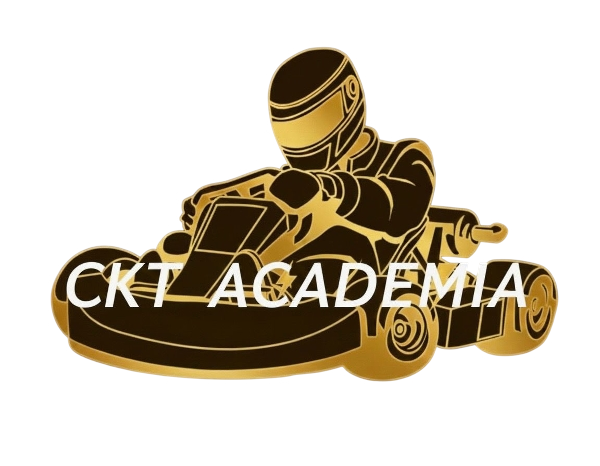
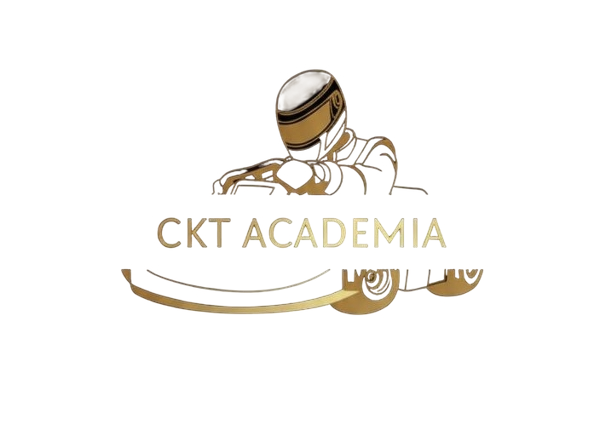
feat: Integrate EmailJS for error reporting, add crossorigin attributes to scripts, and include new transparent PNG assets.

diff --git a/index.html b/index.html
@@ -15,31 +15,47 @@
   <link rel="apple-touch-startup-image" href="./icons/512.png">
   <link rel="manifest" href="./manifest.json" />
 
-  <script src="https://cdn.jsdelivr.net/npm/ios-pwa-splash@1.0.0/cdn.min.js"></script>
+  <script src="https://cdn.jsdelivr.net/npm/ios-pwa-splash@1.0.0/cdn.min.js" crossorigin="anonymous"></script>
+  <script type="text/javascript" src="https://cdn.jsdelivr.net/npm/@emailjs/browser@4/dist/email.min.js"></script>
 </head>
 
 <body>
   <div id="root"></div>
   <script>
-    iosPWASplash('/canary-karting/icons/512.png', '#090d17');
+    // --- EmailJS Config ---
+    // Please set your actual credentials here:
+    const EMAILJS_PUBLIC_KEY = "Yc4gpMVIpo28UJALy";
+    const EMAILJS_SERVICE_ID = "service_07oa5oa";
+    const EMAILJS_TEMPLATE_ID = "template_g81x7ri";
+
+    if (EMAILJS_PUBLIC_KEY !== "YOUR_PUBLIC_KEY") {
+      emailjs.init(EMAILJS_PUBLIC_KEY);
+    }
+
     window.onerror = function (msg, url, lineNo, columnNo, error) {
-      var errorDiv = document.createElement('div');
-      errorDiv.style.position = 'fixed';
-      errorDiv.style.top = '0';
-      errorDiv.style.left = '0';
-      errorDiv.style.width = '100%';
-      errorDiv.style.backgroundColor = 'rgba(255,0,0,0.9)';
-      errorDiv.style.color = 'white';
-      errorDiv.style.padding = '20px';
-      errorDiv.style.zIndex = '9999';
-      errorDiv.style.fontFamily = 'monospace';
-      errorDiv.style.whiteSpace = 'pre-wrap';
-      errorDiv.innerText = 'Error: ' + msg + '\nURL: ' + url + '\nLine: ' + lineNo + '\nCol: ' + columnNo + '\nStack: ' + (error ? error.stack : 'N/A');
-      document.body.appendChild(errorDiv);
+      const errorStack = error ? error.stack : 'N/A';
+
+      // Send via EmailJS if configured
+      if (typeof emailjs !== 'undefined' && EMAILJS_PUBLIC_KEY !== "YOUR_PUBLIC_KEY") {
+        emailjs.send(EMAILJS_SERVICE_ID, EMAILJS_TEMPLATE_ID, {
+          error_message: msg,
+          error_url: url,
+          error_line: lineNo,
+          error_column: columnNo,
+          error_stack: errorStack,
+          user_agent: navigator.userAgent,
+          email: "rilhi22@gmail.com",
+          timestamp: new Date().toISOString()
+        }).then(
+          () => console.log('Error report sent via EmailJS'),
+          (err) => console.error('Failed to send error via EmailJS', err)
+        );
+      }
+
       return false;
     };
   </script>
-  <script type="module" src="/src/main.jsx"></script>
+  <script type="module" src="/src/main.jsx" crossorigin="anonymous"></script>
 </body>
 
 </html>
